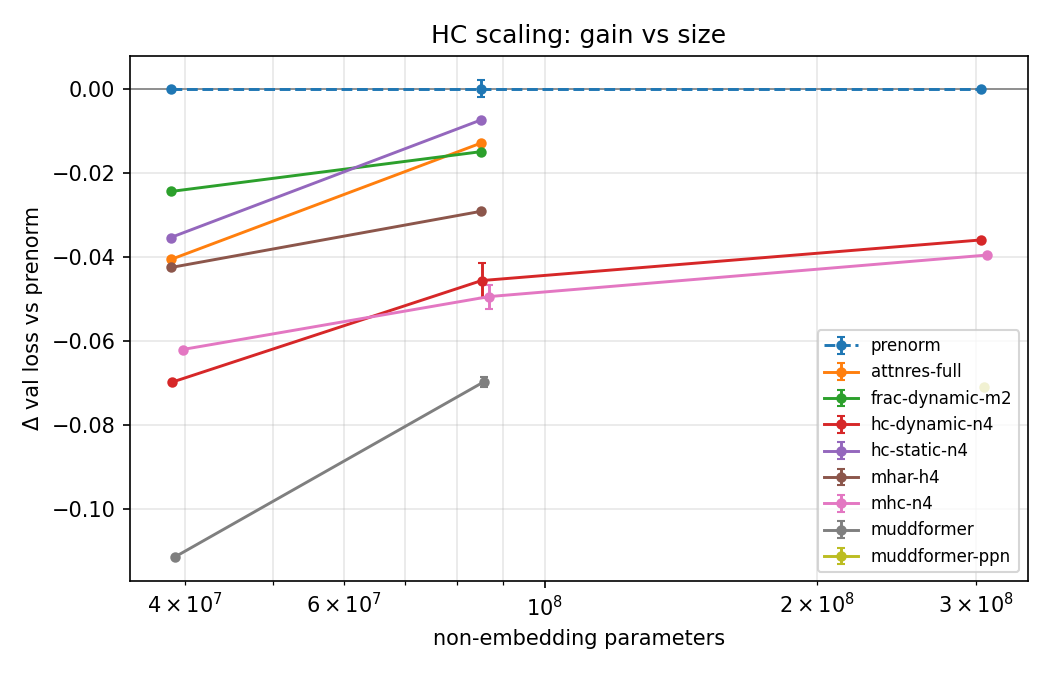
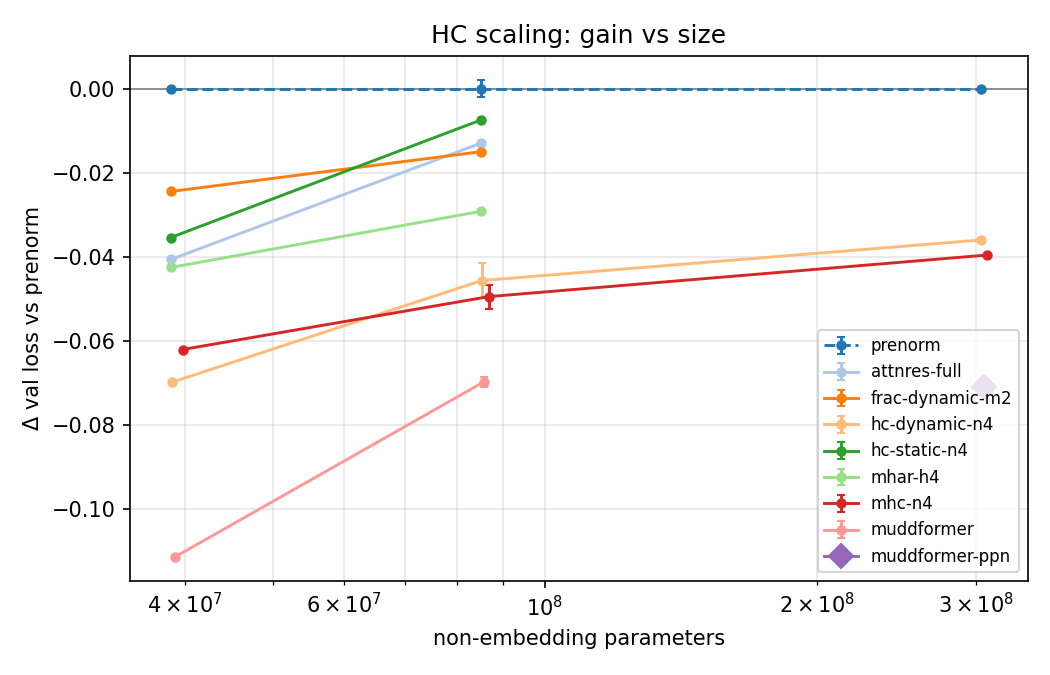
scaling plot: visible single-point variants, 20-color palette

diff --git a/scripts/scaling.py b/scripts/scaling.py
@@ -82,7 +82,7 @@ def main():
         + table + "\n")
     print(table)
 
-    cmap = plt.get_cmap("tab10")
+    cmap = plt.get_cmap("tab20")
     for kind in ("loss", "delta"):
         fig, ax = plt.subplots(figsize=(7, 4.5))
         for i, n in enumerate(names):
@@ -92,8 +92,10 @@ def main():
             if not pts:
                 continue
             xs, ys, es = zip(*pts)
-            ax.errorbar(xs, ys, yerr=es, marker="o", ms=4, lw=1.4, capsize=2,
-                        ls="--" if n == args.baseline else "-", color=cmap(i % 10), label=n)
+            single = len(xs) == 1  # a lone point needs a bigger marker to be visible
+            ax.errorbar(xs, ys, yerr=es, marker="D" if single else "o", ms=8 if single else 4,
+                        lw=1.4, capsize=2,
+                        ls="--" if n == args.baseline else "-", color=cmap(i % 20), label=n)
         ax.set_xscale("log")
         ax.set_xlabel("non-embedding parameters")
         ax.set_ylabel("final val loss" if kind == "loss" else f"Δ val loss vs {args.baseline}")
